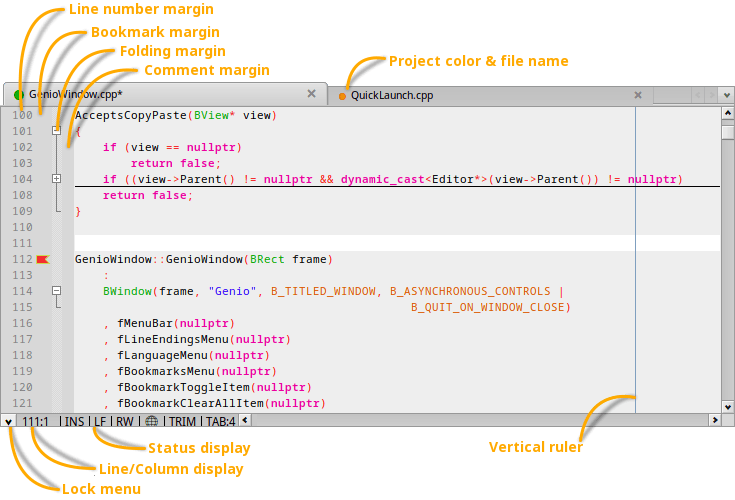
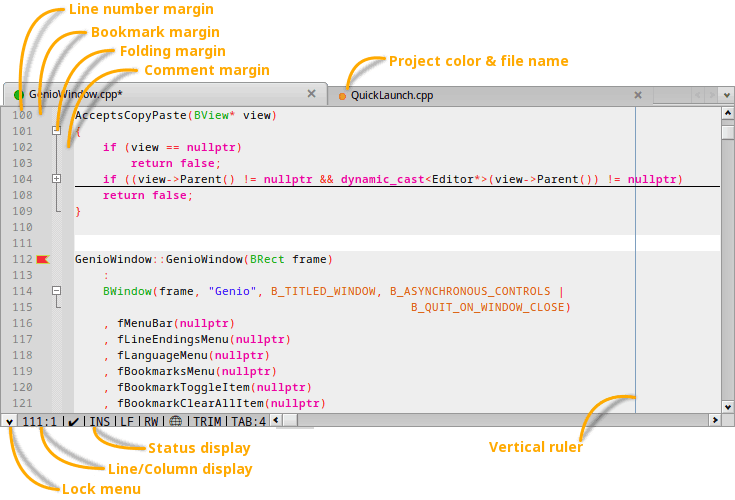
Updated user documentation
* Updated editor status bar, mentioning new LSP status.
* Describe new ALT+click symbols to jump and changed behaviour
  when hovering/clicking included headers (doesn't underline and
  jump on click, but needs ALT like other symbols).
* Updated menus: symbol jump-history, tab-switching.
* Updated toolbar: remove "close file" and "open files list", changed
  "switch prev/next file" to "go to prev/next symbol".
* Updated Genio settings: Added Console settings, add new "force show
  build-log".
* Updated screenshots.

Changed region(s): [[0.0, 0.81, 0.419, 0.96]]

diff --git a/documentation/editor.html b/documentation/editor.html
@@ -103,17 +103,15 @@ Locked files are marked with a little lock symbol in the tab.</p>
 
 <p><img src="./images/editor-status.png" style="border:none" alt="Editor status display" /></p>
 
+<p>From left to right:</p>
 <ul>
+<li>The row and column of the current cursor position, mentioned above.</li>
+<li>The status of the <a href="./settings-lsp.html">LSP</a> backend. Shows "<b>!</b>" while parsing and "✔" when idle.</li>
 <li>The current writing mode (INS = insert, OVR = overwrite). Clicking it toggles the mode, which is normally done with <span class="key">INS</span> on the keyboard.</li>
-
 <li>The line endings of the current file (LF = Linefeed, CR = Carriage Return).</li>
-
 <li>The file's write permissions (RW = read/write, RO = read-only).</li>
-
-<li>Shows if the file is being configured by an <tt>.editconfig</tt> file (text icon) or by the global Genio settings (globe icon). See <a href="settings-genio.html#editor">Editor settings</a>.</li>
-
+<li>Shows if the file is being configured by an <tt>.editconfig</tt> file (text icon: 📄) or by the global Genio settings (globe icon: 🌐). See <a href="settings-genio.html#editor">Editor settings</a>.</li>
 <li>Shows if trailing whitespaces get trimmed when saving.</li>
-
 <li>Shows the tab width (spaces per tab).</li>
 </ul>
 
@@ -152,7 +150,7 @@ Locked files are marked with a little lock symbol in the tab.</p>
 
 <p style="text-align:center"><img src="./images/editor-linked_info.png" style="border:none" alt="Links and info on headers" /></p>
 
-<p>Included headers are underlined to mark them as link. Simply click on one to open the header file.<br />
+<p>You can hold <span class="key">ALT</span> and click on an included header to open its file.<br />
 Hover your mouse over it and a tooltip shows the header's location on disk and which functions etc. it provides and are used from it.</p>
 
 
@@ -161,6 +159,8 @@ Hover your mouse over it and a tooltip shows the header's location on disk and w
 <a id="jumpdef" name="jumpdef">Jump to definition/declaration</a></h3>
 
 <p>You can jump between the definition and declaration of a member variable, function or class etc. and vice-versa. Either right-click on it and choose <span class="menu">Go to definition/declaration</span> or hit <span class="key">ALT</span>&nbsp;<span class="key">G</span> after placing the cursor on it.</p>
+
+<p>Often even easier: Just hold <span class="key">ALT</span> and symbols become underlined when the mouse pointer hovers over them. Then it's a simple left-click to jump to the definition/declaration.</p>
 
 
 <h3>

diff --git a/documentation/settings-genio.html b/documentation/settings-genio.html
@@ -34,6 +34,7 @@
 	<a href="#editor">Editor</a><br />
 	<a href="#editor_visual">┣━ Visual</a><br />
 	<a href="#editor_find"> ┗━ Find</a><br />
+	<a href="#console">Console</a><br />
 	<a href="#build">Build</a><br />
 	<a href="#lsp">LSP</a><br />
 	<a href="#source_control">Source control</a>
@@ -124,9 +125,9 @@
 
 <h2>
 <a href="#"><img src="./images/up.png" style="border:none;float:right" alt="index" /></a>
-<a id="editor_visuals" name="editor_visual">Editor / Visual</a></h2>
+<a id="editor_visuals" name="editor_visual">Editor / Visuals</a></h2>
 
-<p style="text-align:center"><img src="./images/genio-settings-editor_visual.png" style="border:none;padding:15px" alt="Genio settings: Editor / Visual" /></p>
+<p style="text-align:center"><img src="./images/genio-settings-editor_visuals.png" style="border:none;padding:15px" alt="Genio settings: Editor / Visuals" /></p>
 
 <table summary="layout">
 <tr><td class="onelinetop"><span class="menu">Editor style</span></td>
@@ -180,6 +181,16 @@
 
 <h2>
 <a href="#"><img src="./images/up.png" style="border:none;float:right" alt="index" /></a>
+<a id="console" name="console">Console</a></h2>
+
+<p style="text-align:center"><img src="./images/genio-settings-console.png" style="border:none;padding:15px" alt="Genio settings: Console" /></p>
+
+<p>You can choose the style of the Console tab of the bottom pane. You can <span class="menu">follow system style</span> to get the same as Haiku's standard Terminal, or <span class="menu">follow editor style</span> to use the same as your editor settings.</p>
+<p>Alternatively, you can pick a fixed theme from the set of styles that are also available in the <a href="#editor_visuals">Editor / Visuals</a> settings described above.</p>
+
+
+<h2>
+<a href="#"><img src="./images/up.png" style="border:none;float:right" alt="index" /></a>
 <a id="build" name="build">Build</a></h2>
 
 <p style="text-align:center"><img src="./images/genio-settings-build.png" style="border:none;padding:15px" alt="Genio settings: Build" /></p>
@@ -196,6 +207,9 @@
 
 <tr><td class="onelinetop"><span class="menu">Auto-Save changed files when building</span></td>
 <td>Saves all changed files automatically when a build was started.</td></tr>
+
+<tr><td class="onelinetop"><span class="menu">Force showing Build log panel when building</span></td>
+<td>If you've hidden the bottom pane, it will automatically pop up with the <a href="panes.html#console">Console I/O</a> tab when you start building the project.</td></tr>
 </table>
 
 

diff --git a/documentation/toolbar.html b/documentation/toolbar.html
@@ -130,24 +130,13 @@ Show or hide the <a href="#replace-bar">Replace bar</a>, also with menu <span cl
 </td></tr>
 
 <tr><td>
-<img src="./images/icons/kIconBack_1.png" alt="Switch to previous file" />
-<img src="./images/icons/kIconForward_2.png" class="icons" alt="Switch to next file" />
+<img src="./images/icons/kIconBack_1.png" alt="Go to previous symbol" />
+<img src="./images/icons/kIconForward_2.png" class="icons" alt="Go to next symbol" />
 </td><td style="vertical-align: middle">
-<p>Switch to the previous file (the tab to the left), also with <span class="key">CTRL</span>&nbsp;<span class="key">←</span>.<br />
-Switch to the next file (the tab to the right), also with <span class="key">CTRL</span>&nbsp;<span class="key">→</span>.</p>
+<p>Go back/forward in the symbol jump history that's kept when you jump via <span class="key">ALT</span>&nbsp;<span class="key">G</span> or by <span class="key">ALT</span>-clicking.<br />
+(also with <span class="key">SHIFT</span>&nbsp;<span class="key">ALT</span>&nbsp;<span class="key">←</span>/<span class="key">→</span>).</p>
 </td></tr>
 
-<tr><td>
-<img src="./images/icons/kIconClose.png" class="icons" alt="Close file" />
-</td><td style="vertical-align: middle">
-<p>Close the current file, also with menu <span class="menu">File|Close</span>, <span class="key">ALT</span>&nbsp;<span class="key">W</span> or a right-click on its tab.</p>
-</td></tr>
-
-<tr><td>
-<img src="./images/icons/kIconFileList.png" class="icons" alt="Open files list" />
-</td><td style="vertical-align: middle">
-<p>Show a menu with all open files, also available when clicking the widget at the right end of the tab bar.</p>
-</td></tr>
 </table>
 
 
@@ -204,9 +193,9 @@ Previous replace strings can be found in the <span class="menu">Replace</span> p
 
 <p>Hitting <span class="key">TAB</span> or <span class="key">ENTER</span> or click <span class="button">Run</span> to execute the entered command line.</p>
 
-<p><span class="key">ESC</span> closes the Console bar.</p>
-
 <p>Previous commands can be found in the <span class="menu">Run</span> pop-up menu.</p>
+
+<p><span class="key">ESC</span> closes the Console bar.</p>
 
 <hr />
 <a href="panes.html" style="border:none;float:left">Back: Panes</a>

diff --git a/documentation/menus.html b/documentation/menus.html
@@ -105,6 +105,11 @@ In it is an item <span class="menu">Edit user templates…</span> that opens a f
 <img src="./images/menus-search.png" class="floatleft" alt="Search menu" />
 
 <p style="margin-top: 2.2em"><span class="menu">Find</span>, <span class="key">ALT</span>&nbsp;<span class="key">F</span>, and <span class="menu">Replace</span>, <span class="key">ALT</span>&nbsp;<span class="key">R</span>, are described on the Toolbar page under <a href="toolbar.html#find-bar">Find bar</a> and <a href="toolbar.html#replace-bar">Replace bar</a>.</p>
+
+<p>With <span class="key">ALT</span>&nbsp;<span class="key">G</span> you can jump to the definition / declaration / implementation of the symbol the currently under the cursor.<br />
+The handy alternative is to simply hold <span class="key">ALT</span> and left-click on a symbol.</p>
+
+<p><span class="menu">Go back/forward</span>, <span class="key">SHIFT</span>&nbsp;<span class="key">ALT</span>&nbsp;<span class="key">←</span>/<span class="key">→</span>, lets you move back and forth in that 'jump-history'.</p>
 <p style="clear:left"></p>
 
 
@@ -149,6 +154,8 @@ In it is an item <span class="menu">Edit user templates…</span> that opens a f
 <img src="./images/menus-window.png" class="floatleft" style="margin-bottom: 4em" alt="Window menu" />
 
 <p style="margin-top: 2.2em">You can show/hide panes and tool- and statusbar under <span class="menu">Appearance</span>.</p>
+
+<p><span class="menu">Go to previous/next tab</span>, <span class="key">CTRL</span>&nbsp;<span class="key">ALT</span>&nbsp;<span class="key">←</span>/<span class="key">→</span>, lets you switch to the tab to the left/right.</p>
 
 <p>Genio's window can be made <span class="menu">Fullscreen</span> (<span class="key">ALT</span>&nbsp;<span class="key">ENTER</span>).</p>
 

diff --git a/documentation/panes.html b/documentation/panes.html
@@ -62,7 +62,7 @@
 Commands like <span class="menu">Project|Build project</span> or a search in the whole project work only on the currently active project. A project can be <span class="menu">Set active</span> from the context menu when right-clicking it.
 </p>
 
-<p>The context menu provides more commands to manage your project, depending on what item it was invoked on. Right-clicking the project name (= top folder), lets you build your project, close it, open its <a href="settings-project.html">Project settings</a>, add new files from templates or open its folder in Tracker, among other things.</p>
+<p>The context menu provides more commands to manage your project, depending on what item it was invoked on. Right-clicking the project name (= top folder), lets you build your project, close it, open its <a href="settings-project.html">Project settings</a>, switch branches, add new files from templates or open its folder in Tracker, among other things.</p>
 
 <p>A right-click on files or folders inside the project allows you to rename, delete or open a file with its preferred application, etc.</p>
 
